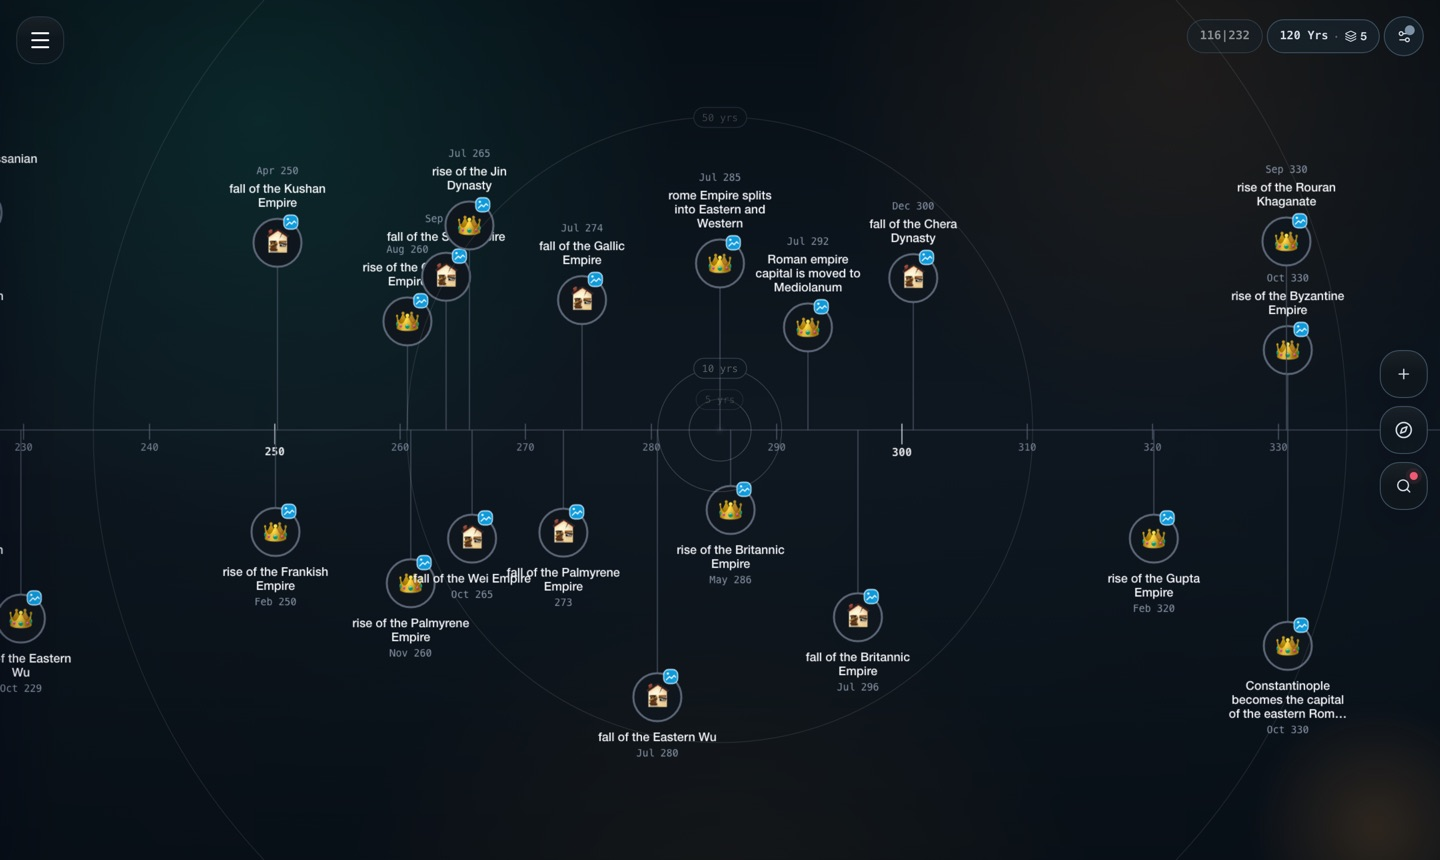
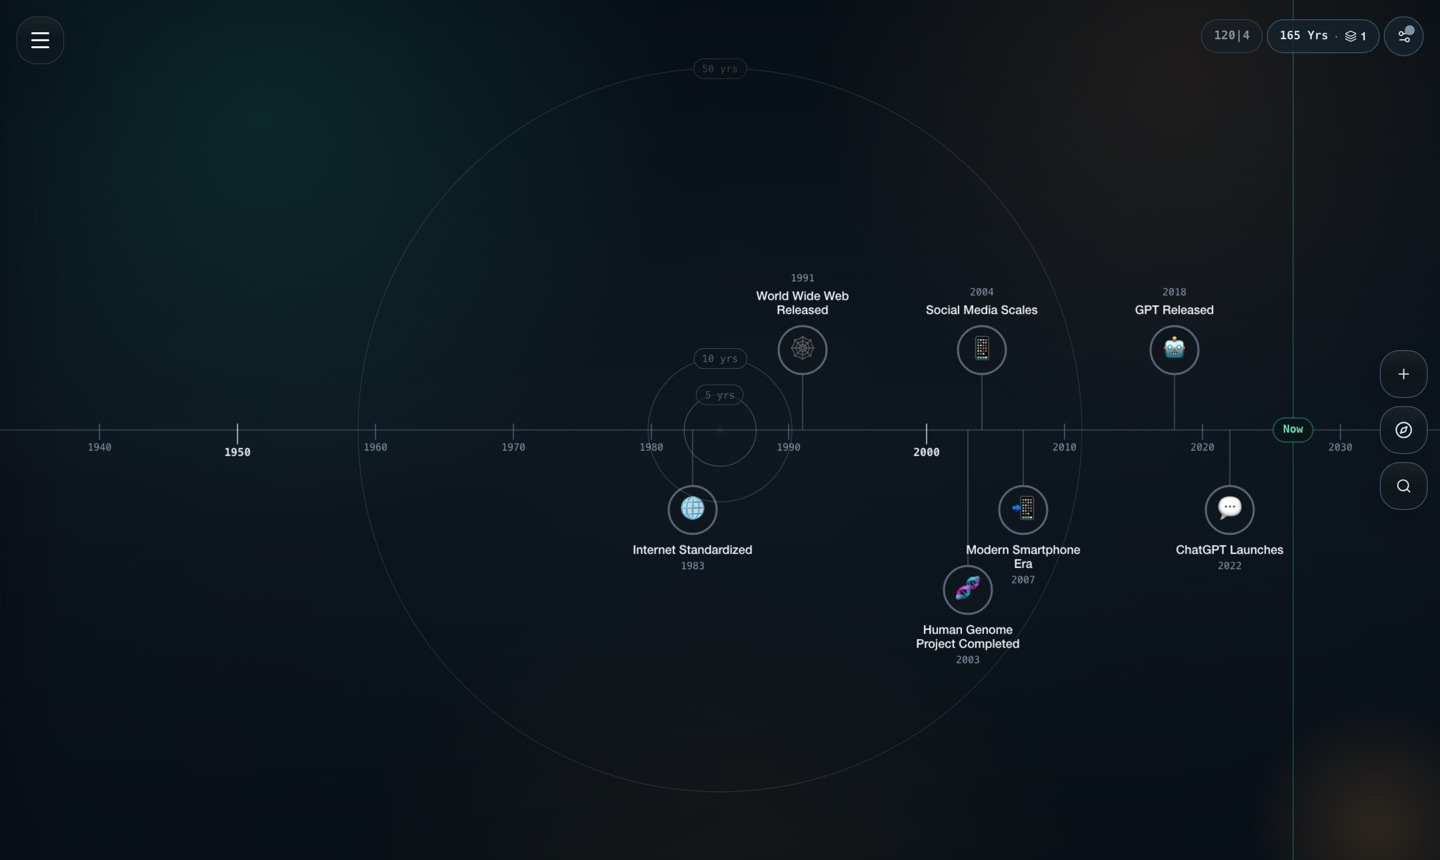
stop restore from being mistaken for a layer toggle
The auto-fit effect keyed on visibleCollectionIds, but that array also fills
in while a session is being reassembled — from ?c= and from localStorage —
and both of those arrive alongside a viewport the camera has already been
placed at. Auto-fitting over them discarded the restored frame: a share link
carrying collections and ?y=/?z= opened at the full 13.8-billion-year fit
instead of the moment it encodes, and a reload never came back to where you
left off. Measured before: ?c=cosmic,empires&y=200&z=… opened at 31B Yrs.
After: 800 Yrs at year 200, and the same frame survives a reload.

The store now counts visibility toggles, bumped only by the two actions a
person can reach — the sidebar switch, the explore modal, opening a
collection from the landing page, finishing an import. The effect keys on
that count, skips the value it mounted at, and ignores the one programmatic
caller, which hides collections a share URL did not ask for. Toggling a layer
by hand still reframes, which is what the effect was for.

Screenshots retaken now that deep links can compose an exact frame: the
cosmic sweep instead of a wall of overlapping empires, and the information
age at 165 years with the reference rings up. Both are legible at a glance;
the old pair was dense rather than striking.

Claude-Session: https://claude.ai/code/session_016DUcuDMv6s9vy6whgfJtXW

diff --git a/src/components/Timeline.tsx b/src/components/Timeline.tsx
@@ -217,6 +217,9 @@ export const Timeline = ({
   const downloadCollection = useStore((s) => s.downloadCollection);
   const syncCollection = useStore((s) => s.syncCollection);
   const setCollectionVisibility = useStore((s) => s.setCollectionVisibility);
+  const collectionVisibilityNonce = useStore(
+    (s) => s.collectionVisibilityNonce,
+  );
   const importCollections = useStore((s) => s.importCollections);
   const deleteCollection = useStore((s) => s.deleteCollection);
   const saveEvent = useStore((s) => s.saveEvent);
@@ -717,14 +720,40 @@ export const Timeline = ({
     setIsRulerActive,
   });
 
-  // Auto-fit when user toggles collection visibility in Sidebar
+  // Tracks the window in which a share URL is still being reassembled; see
+  // the auto-fit effect below and the ?c= applier further down.
+  const [isApplyingSharedUrl, setIsApplyingSharedUrl] = useState(false);
+
+  // Auto-fit when the user turns a layer on or off.
+  //
+  // Keyed on the store's toggle counter rather than on `visibleCollectionIds`
+  // itself: that array also fills in while a session is being reassembled —
+  // from ?c= and from localStorage — and both of those arrive alongside a
+  // viewport the camera has already been placed at. Auto-fitting on those
+  // threw the restored frame away, so a share link carrying collections *and*
+  // ?y=/?z= opened at the full 13.8-billion-year fit instead of the moment it
+  // encodes, and a reload never came back to where you left off.
   const handleAutoFitRef = useRef<any | null>(null);
   useEffect(() => {
     handleAutoFitRef.current = handleAutoFit;
   }, [handleAutoFit]);
 
+  // The one programmatic caller of setCollectionVisibility hides collections a
+  // share URL did not ask for; that is still restore, not a toggle.
+  const isApplyingSharedUrlRef = useRef(isApplyingSharedUrl);
+  useEffect(() => {
+    isApplyingSharedUrlRef.current = isApplyingSharedUrl;
+  }, [isApplyingSharedUrl]);
+
+  const lastAutoFitNonceRef = useRef(collectionVisibilityNonce);
   useEffect(() => {
     if (!hasBootstrappedRef.current) return;
+    // Mount runs the effect once with the value it started at; only a real
+    // change past that point is a toggle.
+    if (collectionVisibilityNonce === lastAutoFitNonceRef.current) return;
+    lastAutoFitNonceRef.current = collectionVisibilityNonce;
+    if (isApplyingSharedUrlRef.current) return;
+
     // Defer to next frame so events have finished rendering first
     const frame = requestAnimationFrame(() =>
       handleAutoFitRef.current?.(false),
@@ -732,7 +761,7 @@ export const Timeline = ({
     return () => {
       window.cancelAnimationFrame(frame);
     };
-  }, [visibleCollectionIds]);
+  }, [collectionVisibilityNonce]);
 
   const downloadedCollectionIds = useMemo(
     () => Object.keys(collectionEventsById),
@@ -1122,7 +1151,6 @@ export const Timeline = ({
   const lastAppliedSharedUrlSignatureRef = useRef<string | null>(null);
   const sharedUrlFocusFrameRef = useRef<number | null>(null);
   const sharedUrlFocusRequestedSignatureRef = useRef<string | null>(null);
-  const [isApplyingSharedUrl, setIsApplyingSharedUrl] = useState(false);
   const [
     sharedUrlCollectionsReadySignature,
     setSharedUrlCollectionsReadySignature,

diff --git a/src/stores/index.ts b/src/stores/index.ts
@@ -92,6 +92,15 @@ type TimelineStoreState = {
   syncAccessToken: string | null;
   syncAccessTokenExpiry: number | null;
   visibleCollectionIds: string[];
+  /**
+   * Bumped only when a person turns a layer on or off — the sidebar toggle, the
+   * explore modal, opening a collection from the landing page, finishing an
+   * import. Restoring `visibleCollectionIds` from a share URL or from
+   * localStorage leaves it alone, which is how the timeline tells "the user
+   * asked for a different set of layers" apart from "this session is still
+   * being reassembled". Session-only: never persisted.
+   */
+  collectionVisibilityNonce: number;
   downloadingCollectionIds: string[];
   collectionColorPreferences: Record<string, string>;
   selectedEventId: string | null;
@@ -1685,6 +1694,7 @@ export const useStore = create<TimelineStoreState>()(
           syncAccessToken: null,
           syncAccessTokenExpiry: null,
           visibleCollectionIds: [],
+          collectionVisibilityNonce: 0,
           downloadingCollectionIds: [],
           collectionColorPreferences: {},
           selectedEventId: null,
@@ -1759,6 +1769,7 @@ export const useStore = create<TimelineStoreState>()(
                 if (!state.visibleCollectionIds.includes(collectionId)) {
                   state.visibleCollectionIds.push(collectionId);
                 }
+                state.collectionVisibilityNonce += 1;
               }),
             ),
           setCatalogMeta: (catalogMeta, syncableIds) =>
@@ -2049,6 +2060,7 @@ export const useStore = create<TimelineStoreState>()(
                 }
                 const init = createInitialTimelineSearchState();
                 Object.assign(state, init);
+                state.collectionVisibilityNonce += 1;
               }),
             ),
           importCollections: (collections) => {

diff --git a/README.md b/README.md
@@ -17,7 +17,7 @@ Cambrian explosion on the same axis and watch where they land.
 ![No backend](https://img.shields.io/badge/backend-none-1f6f5c)
 ![MIT](https://img.shields.io/badge/license-MIT-blue)
 
-<img src=".github/readme/timeline.jpg" alt="Five collections layered on one timeline around the fall of Rome" width="100%">
+<img src=".github/readme/timeline.jpg" alt="Cosmic Origins and Earth &amp; Life on one axis, eleven billion years across the screen" width="100%">
 
 </div>
 
@@ -34,9 +34,9 @@ mode, breaking the layout, or asking you which "era" you'd like to see.
 
 Zoom far enough out and 300,000 years of human history collapses into one pixel. Zoom
 in and it unfolds again, event by event, with concentric rings marking the scale you're
-standing in.
+standing in — the same axis as the picture above, eight orders of magnitude closer.
 
-<img src=".github/readme/timeline-zoom.jpg" alt="Zoomed to a 120-year window, with reference rings showing 5, 10 and 50 year scales" width="100%">
+<img src=".github/readme/timeline-zoom.jpg" alt="The timeline at a 165-year window, reference rings marking the 5, 10 and 50 year scales" width="100%">
 
 ## What you can do with it
 
